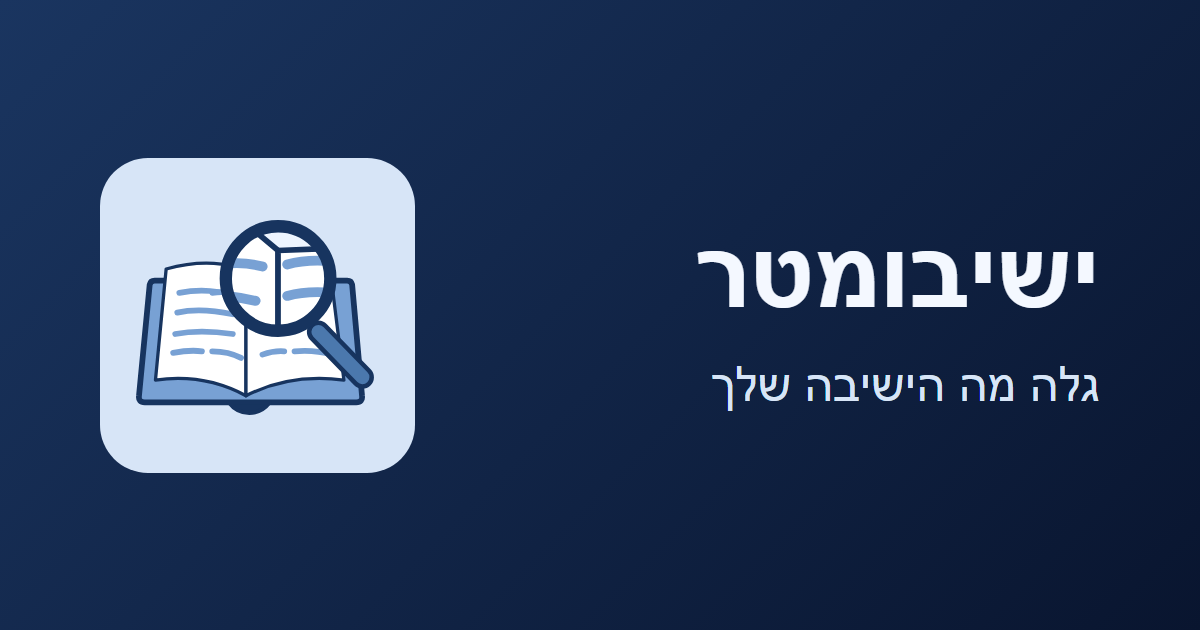
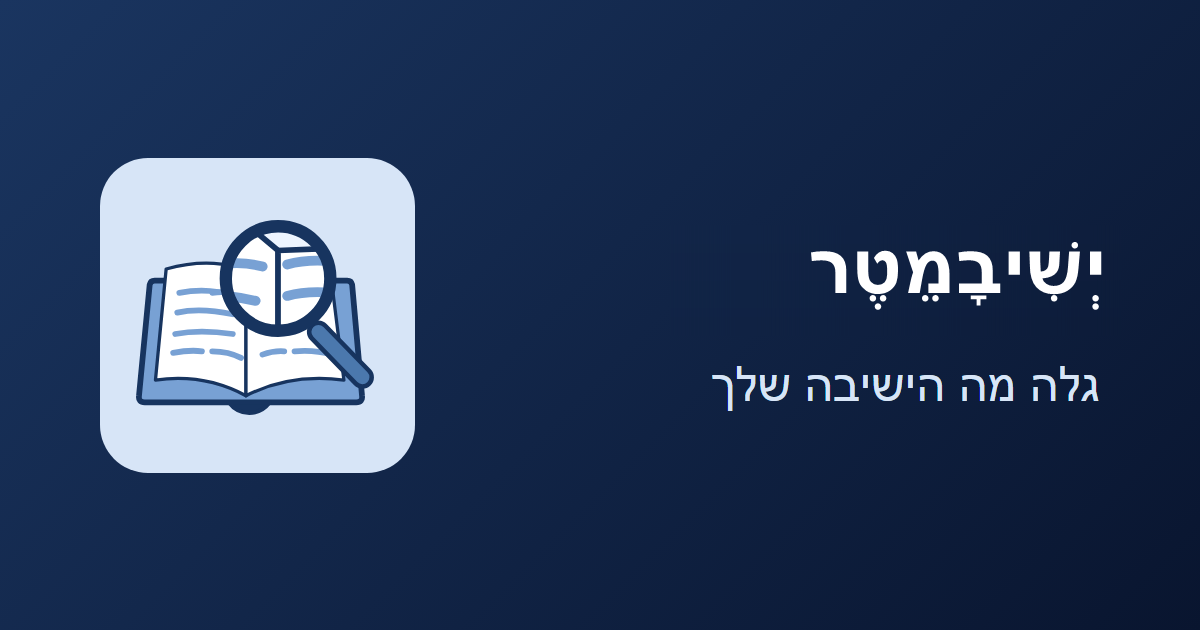
name

Changed region(s): [[0.5858, 0.3921, 0.925, 0.5127]]

diff --git a/index.html b/index.html
@@ -5,25 +5,25 @@
     <meta name="viewport" content="width=device-width, initial-scale=1.0" />
     <meta
       name="description"
-      content="ישיבומטר עוזר לך למצוא ישיבות שמתאימות לך לפי סגנון הלימוד, הערכים וההעדפות האישיות שלך."
+      content="ישיבמטר עוזר לך למצוא ישיבות שמתאימות לך לפי סגנון הלימוד, הערכים וההעדפות האישיות שלך."
     />
-    <title>ישיבומטר - גלה מה הישיבה שלך</title>
+    <title>ישיבמטר - גלה מה הישיבה שלך</title>
     <link rel="canonical" href="https://yeshivameter.com/" />
     <meta property="og:type" content="website" />
-    <meta property="og:site_name" content="ישיבומטר" />
-    <meta property="og:title" content="ישיבומטר - גלה מה הישיבה שלך" />
+    <meta property="og:site_name" content="ישיבמטר" />
+    <meta property="og:title" content="ישיבמטר - גלה מה הישיבה שלך" />
     <meta property="og:description" content="שאלון קצר שיעזור לך למצוא ישיבות שמתאימות לך." />
     <meta property="og:url" content="https://yeshivameter.com/" />
-    <meta property="og:image" content="https://yeshivameter.com/share-preview.png?v=2" />
+    <meta property="og:image" content="https://yeshivameter.com/share-preview.png?v=3" />
     <meta property="og:image:type" content="image/png" />
     <meta property="og:image:width" content="1200" />
     <meta property="og:image:height" content="630" />
-    <meta property="og:image:alt" content="ישיבומטר - גלה מה הישיבה שלך" />
+    <meta property="og:image:alt" content="ישיבמטר - גלה מה הישיבה שלך" />
     <script type="application/ld+json">
       {
         "@context": "https://schema.org",
         "@type": "WebSite",
-        "name": "ישיבומטר",
+        "name": "ישיבמטר",
         "alternateName": "Yeshivameter",
         "url": "https://yeshivameter.com/"
       }
@@ -45,10 +45,10 @@
   <body>
     <div class="app-shell">
       <header class="topbar">
-        <div class="brand" aria-label="דף הבית של ישיבומטר">
+        <div class="brand" aria-label="דף הבית של ישיבמטר">
           <img class="brand-mark"           src="logo.svg" alt="" />
           <div>
-                      <h1>יְשִׁיבוֹמֶטֶר</h1>
+          <h1>יְשִׁיבָמֵטֶר</h1>
                       <p class="eyebrow">ישיבה בהתאמה אישית</p>
           </div>
         </div>

diff --git a/data.js b/data.js
@@ -1,6 +1,6 @@
 window.APP_DATA = {
   app: {
-    title: 'ישיבומטר',
+    title: 'ישיבמטר',
     subtitle: 'מצא את הישיבה שמתאימה לך'
   },
   parameters: [
